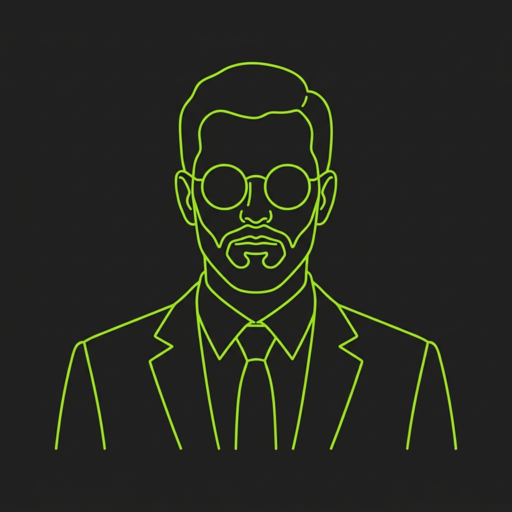
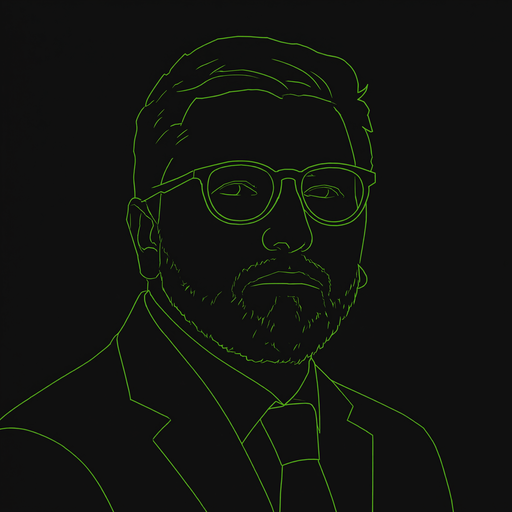
анимация шкал

diff --git a/components/Game.jsx b/components/Game.jsx
@@ -263,11 +263,39 @@ function draw(state){
 /* ============ UI ============ */
 
 function Gauge({ k, value }){
+  const [displayed, setDisplayed] = useState(value);
+  const [pulsing, setPulsing] = useState(false);
+  const displayedRef = useRef(value);
+  const rafRef = useRef(null);
+  const firstRender = useRef(true);
+
+  useEffect(()=>{
+    if(firstRender.current){ firstRender.current = false; displayedRef.current = value; return; }
+    cancelAnimationFrame(rafRef.current);
+    const from = displayedRef.current;
+    const to = value;
+    if(Math.abs(from-to)<0.01) return;
+    setPulsing(true);
+    const duration = 700;
+    const t0 = performance.now();
+    function step(now){
+      const p = Math.min(1, (now-t0)/duration);
+      const eased = 1-Math.pow(1-p,3);
+      const v = from + (to-from)*eased;
+      displayedRef.current = v;
+      setDisplayed(v);
+      if(p<1){ rafRef.current = requestAnimationFrame(step); }
+      else { setPulsing(false); }
+    }
+    rafRef.current = requestAnimationFrame(step);
+    return ()=>cancelAnimationFrame(rafRef.current);
+  }, [value]);
+
   return (
-    <div className={"gauge"}>
+    <div className={"gauge"+(pulsing?" pulse":"")}>
       <div className="gauge-label">{COUNTERS_META[k].label}</div>
-      <div className="gauge-bar"><div className={"gauge-fill "+gaugeClass(value)} style={{width:value+"%"}}/></div>
-      <div className="gauge-val">{Math.round(value)}</div>
+      <div className="gauge-bar"><div className={"gauge-fill "+gaugeClass(displayed)} style={{width:displayed+"%"}}/></div>
+      <div className="gauge-val">{Math.round(displayed)}</div>
     </div>
   );
 }

diff --git a/lib/gameData.js b/lib/gameData.js
@@ -336,7 +336,8 @@ export const ARC_ROMASHKA = {
       ]},
     { id:"rm2", text:"Изучая выписки, вы находите: за месяц до банкротства директор продал единственный ликвидный станок своей тёще по цене металлолома.",
       options:[
-        { label:"Оспорить сделку", effects:{time:-15, legality:+15, reputation:+5}, matched:true },
+        { label:"Оспорить сделку", effects:{time:-15, legality:+15, reputation:+5}, matched:true,
+          explanation:"Явно заниженная цена в пользу аффилированного лица накануне банкротства — типичное основание для оспаривания подозрительной сделки (ст. 61.2 Закона о банкротстве)." },
         { label:"Сумма небольшая — не тратить на это ресурсы, есть дела покрупнее", effects:{time:+15, legality:-15, reputation:-5}, matched:false,
           delayed:{ prob:0.35, turns:3, effects:{reputation:-15, money:-10},
             text:"Один из кредиторов требует взыскать с вас лично убытки за бездействие по неоспариванию сделки, ссылаясь на нарушение обязанностей по обеспечению сохранности имущества должника." } }
